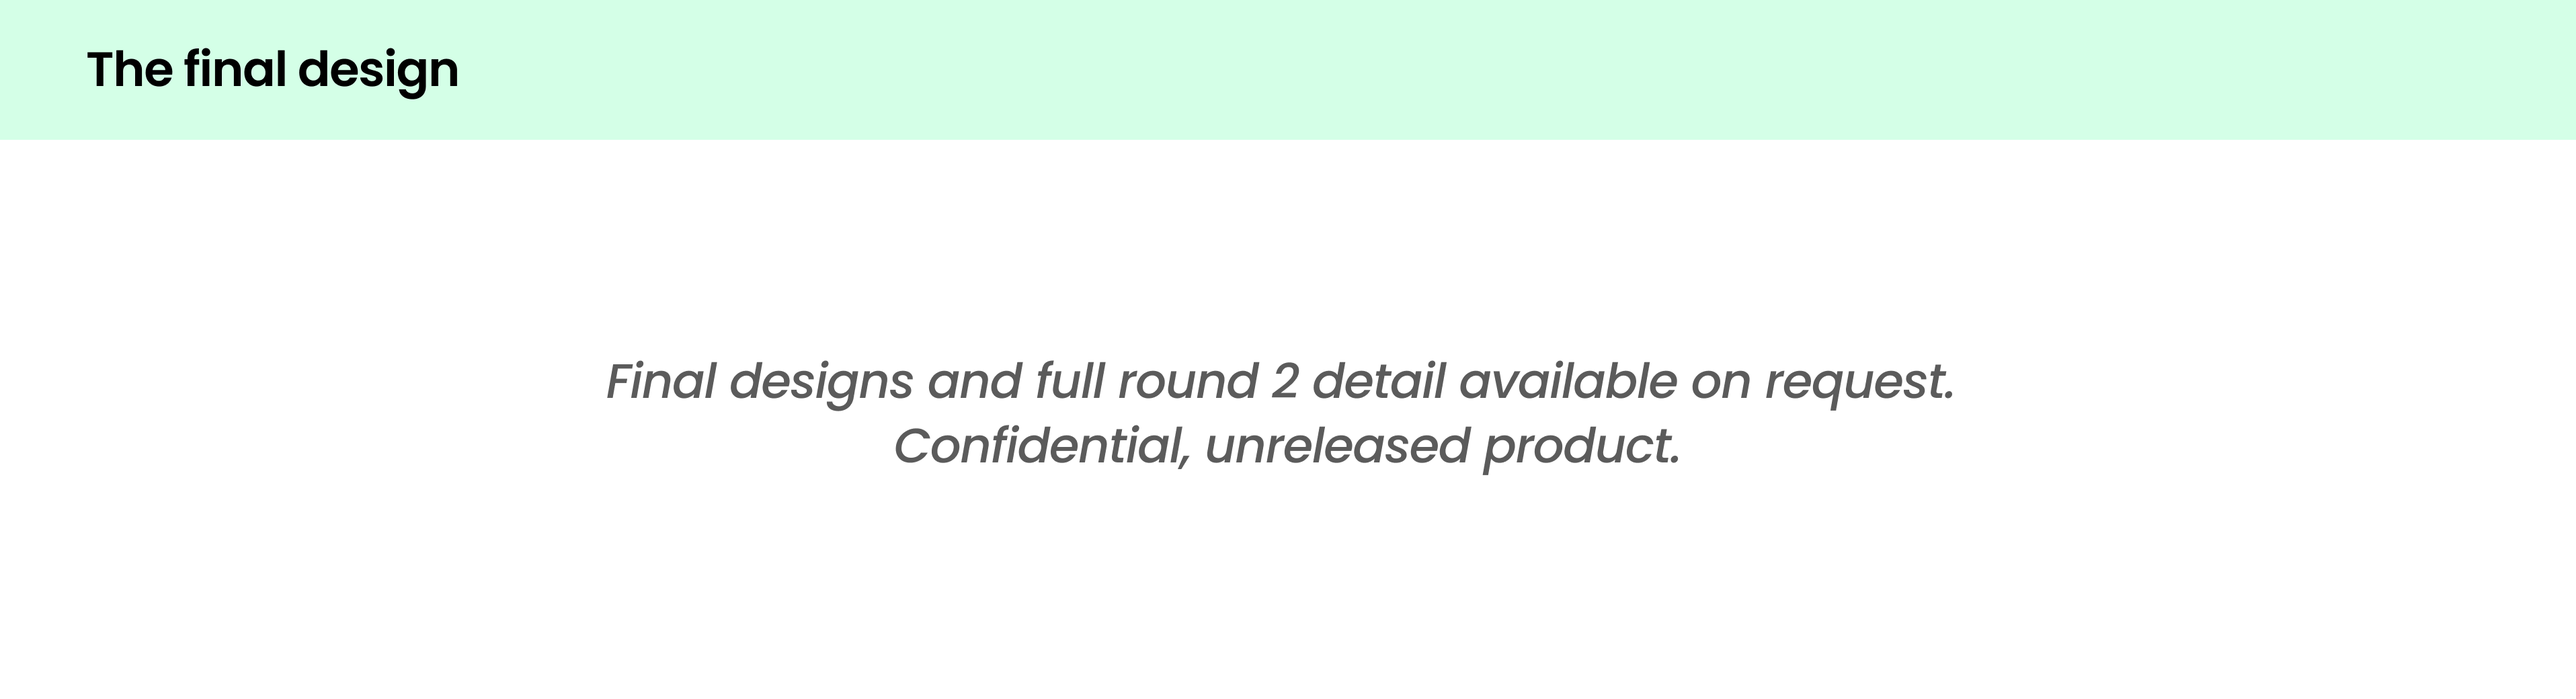
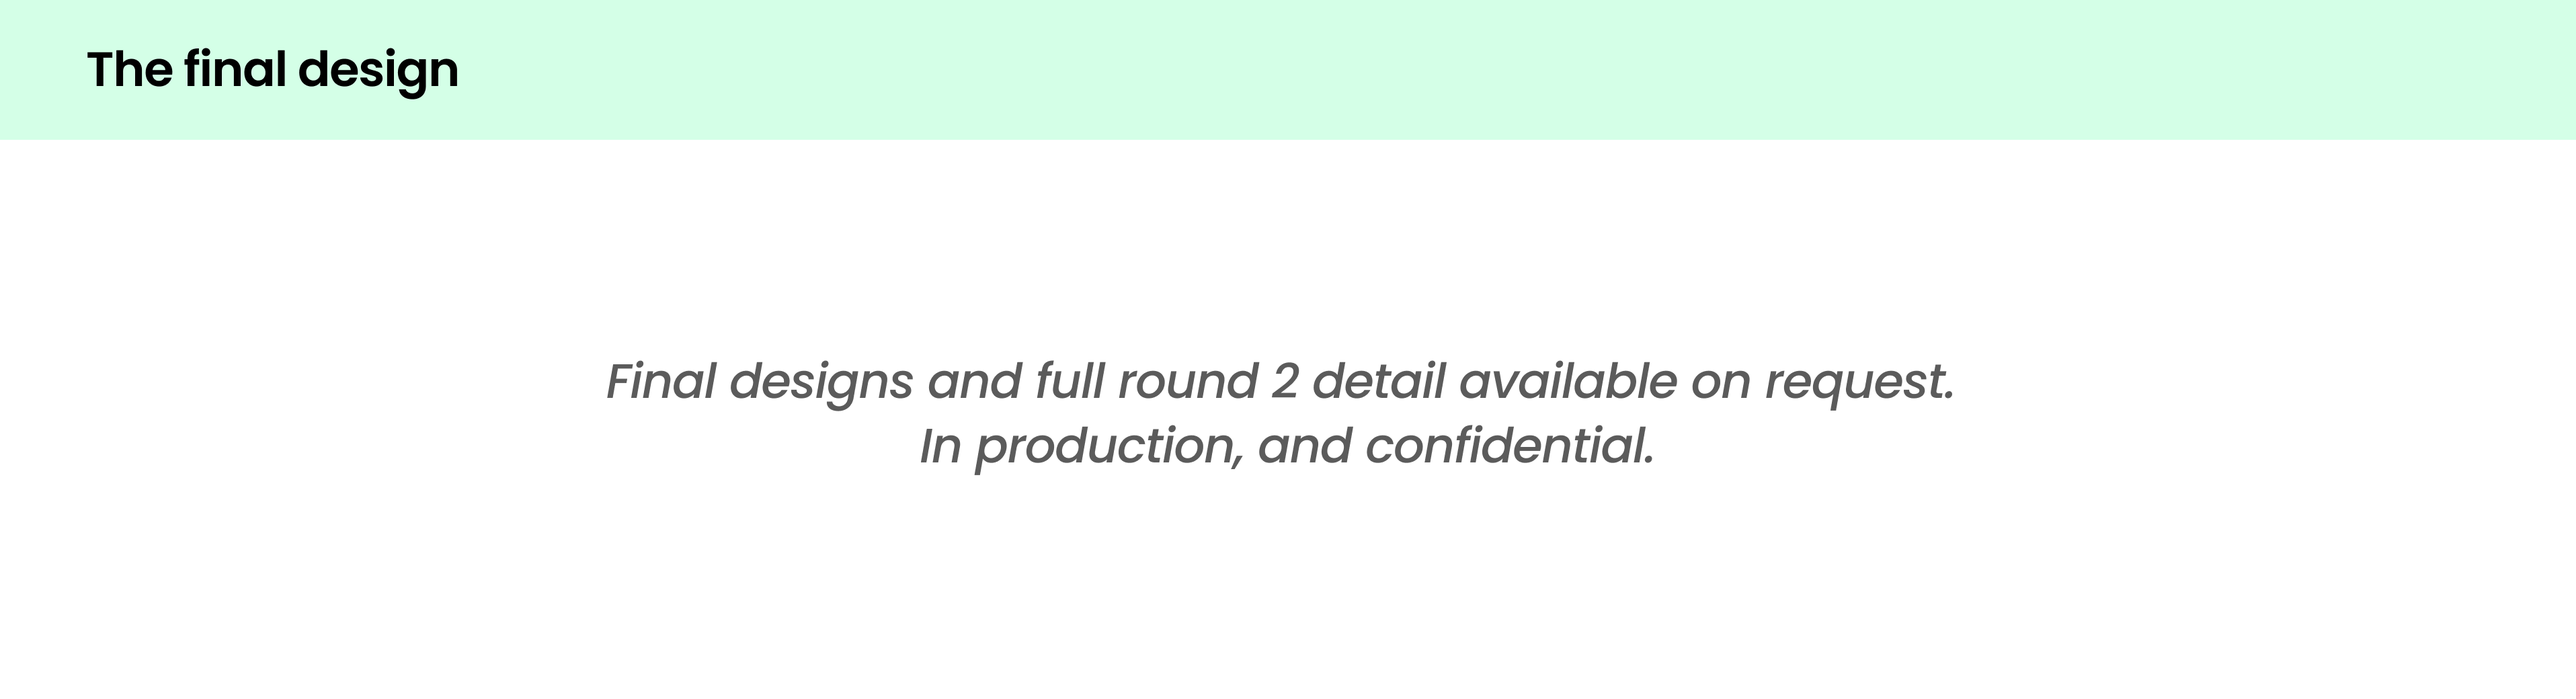
minor fixes

Changed region(s): [[0.3416, 0.6154, 0.6521, 0.6769]]

diff --git a/src/screens/uxDesigns/weScoreRedesign/index.js b/src/screens/uxDesigns/weScoreRedesign/index.js
@@ -328,7 +328,7 @@ function RatingTable({ rows = [], insight }) {
         <div>Participant</div>
 
         <div>
-          Concept 1 Rating
+          Rating
           <br />
           (Clarity, Usefulness, Trust)
         </div>
@@ -501,12 +501,13 @@ function WEScoreRedesign() {
                   padding="12px"
                   items={[
                     {
-                      quote: "“I could have a staff member look at this and go right to where I need them to go.”",
+                      quote:
+                        "“I could have a staff member look at this and go right to where I need them to go.”",
                       author: "President & CEO, community foundation",
                       image: quotePersonNine,
                       imagePosition: "left",
                       imageSize: 45,
-                    }
+                    },
                   ]}
                 />
               </FlexCol>
@@ -541,7 +542,7 @@ function WEScoreRedesign() {
                     "Fundraisers, prospect researchers, gift officers, and outreach teams",
                 },
                 {
-                  label: "Partner",
+                  label: "Company",
                   value: "WealthEngine, Altrata, London (in production)",
                 },
                 {
@@ -591,21 +592,20 @@ function WEScoreRedesign() {
             data-aos-delay="500"
           >
             <FlexOne>
-              <TitleThree>Identified problem</TitleThree>
+              <TitleThree>Identified problems</TitleThree>
               <SubTitleThree>Design Audit & User Research</SubTitleThree>
             </FlexOne>
-            <FlexTwo>
+            <FlexThree>
               <ProjDesc>
                 I audited WealthEngine's two proprietary scores, Wealth Score
                 and P2G (Propensity to Give), then ran research across eight
-                organisations, from solo fundraisers to national nonprofits.{" "}
+                organisations, from solo fundraisers to national nonprofits.
                 <br />
                 Different verticals had different use cases, and daily users had
                 different problems from occasional ones. The product treated
                 them all the same.
               </ProjDesc>
-            </FlexTwo>
-            <FlexOne></FlexOne>
+            </FlexThree>
           </FlexRowContainer>
 
           <FlexRowContainer
@@ -865,7 +865,6 @@ function WEScoreRedesign() {
           </FlexRowContainer>
 
           <FlexRowContainer
-            className="pb-0"
             data-aos="fade-up"
             data-aos-delay="500"
           >
@@ -890,7 +889,6 @@ function WEScoreRedesign() {
           </FlexRowContainer>
 
           <FlexRowContainer
-            className="pb-0"
             data-aos="fade-up"
             data-aos-delay="500"
           >
@@ -938,7 +936,7 @@ function WEScoreRedesign() {
               <TitleThree>Ideation</TitleThree>
               <SubTitleThree>Freehand to digitising</SubTitleThree>
             </FlexOne>
-            <FlexTwo>
+            <FlexThree>
               <ProjDesc>
                 With permission to rewrite the score logic rather than restyle
                 it, the range of answers opened up. Five aims carried into every
@@ -979,8 +977,7 @@ function WEScoreRedesign() {
                   Freehand meter gauge explorations
                 </SubDesc>
               </div>
-            </FlexTwo>
-            <FlexOne></FlexOne>
+            </FlexThree>
           </FlexRowContainer>
 
           <FlexRowContainer
@@ -1018,14 +1015,13 @@ function WEScoreRedesign() {
                 What was taken to the clients as the first draft
               </SubTitleThree>
             </FlexOne>
-            <FlexTwo>
+            <FlexThree>
               <ProjDesc>
                 There were 3 concepts, explorative but sufficient enough to
                 consume feedback to know if we were on the right track. A few
                 things that stayed across the concepts were,
               </ProjDesc>
-            </FlexTwo>
-            <FlexOne></FlexOne>
+            </FlexThree>
           </FlexRowContainer>
 
           <FlexRowContainer
@@ -1040,7 +1036,7 @@ function WEScoreRedesign() {
           </FlexRowContainer>
 
           <FlexRowContainer
-            className="pt-0 pb-0"
+            className="pt-0"
             data-aos="fade-up"
             data-aos-delay="500"
           >
@@ -1102,7 +1098,7 @@ function WEScoreRedesign() {
                 Four organizations, four industries, three time zones
               </SubTitleThree>
             </FlexOne>
-            <FlexTwo>
+            <FlexThree>
               <ProjDesc className="pb-0" style={{ marginBottom: "1%" }}>
                 <SemiBoldTxt>
                   Concept 1 was the direction, with one objection worth
@@ -1111,15 +1107,14 @@ function WEScoreRedesign() {
               </ProjDesc>
               <ProjDesc className="pt-0 pb-0" style={{ marginBottom: "1%" }}>
                 Three of four rated it 4 or 5 for clarity and usefulness. It was
-                the easiest to read and the least decorative.
+                the easiest to read and comprehensive.
               </ProjDesc>
               <ProjDesc>
                 The fourth rated it 2. She's the most experienced researcher in
                 the sample, and when she shared her screen she scrolled straight
                 past the score.
               </ProjDesc>
-            </FlexTwo>
-            <FlexOne></FlexOne>
+            </FlexThree>
           </FlexRowContainer>
 
           <FlexRowContainer
@@ -1313,7 +1308,7 @@ function WEScoreRedesign() {
             <FlexThree className="right-aligned-content">
               <InsightCard
                 title="6. The score leaves the product as an image."
-                description="The score has to survive being cropped out and dropped into a document. No surrounding UI, no hover, no explanation. That rules out anything interaction-dependent, and it's why concept 2 scored lowest."
+                description="The score has to survive being cropped out and dropped into a document. No surrounding UI, no hover, no explanation. That rules out anything interaction-dependent."
                 cardWidth="62%"
                 mainCardColor="#C5E2D2"
                 quoteCardColor="#F7FFF9"
@@ -1332,7 +1327,6 @@ function WEScoreRedesign() {
           </FlexRowContainer>
 
           <FlexRowContainer
-            className="pb-0"
             data-aos="fade-up"
             data-aos-delay="500"
           >
@@ -1409,19 +1403,18 @@ function WEScoreRedesign() {
               <TitleThree>Version Two</TitleThree>
               <SubTitleThree>Evolution of Concept 1</SubTitleThree>
             </FlexOne>
-            <FlexTwo>
+            <FlexThree>
               <ProjDesc>
                 Seven of the eight round 1 findings are answered here. The
                 eighth, planned giving, is a data problem rather than a design
                 one, and sits with another team. Design has provided a
                 placeholder.
               </ProjDesc>
-            </FlexTwo>
-            <FlexOne />
+            </FlexThree>
           </FlexRowContainer>
 
           <FlexRowContainer
-            className="pt-0 pb-0"
+            className="pt-0"
             data-aos="fade-up"
             data-aos-delay="500"
           >
@@ -1451,8 +1444,8 @@ function WEScoreRedesign() {
                 Four organizations, four industries, three time zones
               </SubTitleThree>
             </FlexOne>
-            <FlexTwo>
-              <ProjDesc>
+            <FlexThree>
+              <ProjDesc className="mb-0">
                 Every participant rated it 4 or 5 for clarity. The layout
                 worked, the scale gave people something to read against, and
                 nobody had to be talked through it.
@@ -1461,8 +1454,7 @@ function WEScoreRedesign() {
                 Seven changes came out of round 2, covering asset signals,
                 giving context and client-level personalisation.{" "}
               </ProjDesc>
-            </FlexTwo>
-            <FlexOne />
+            </FlexThree>
           </FlexRowContainer>
 
           <FlexRowContainer
@@ -1500,7 +1492,6 @@ function WEScoreRedesign() {
           </FlexRowContainer>
 
           <FlexRowContainer
-            className="pb-0"
             data-aos="fade-up"
             data-aos-delay="500"
           >
@@ -1520,7 +1511,6 @@ function WEScoreRedesign() {
           </FlexRowContainer>
 
           <FlexRowContainer
-            className="pb-0"
             data-aos="fade-up"
             data-aos-delay="500"
           >
@@ -1528,22 +1518,12 @@ function WEScoreRedesign() {
               <TitleThree>Clarity moved. Trust didn't.</TitleThree>
               <SubTitleThree>The Finding</SubTitleThree>
             </FlexOne>
-            <FlexTwo>
-              <ProjDesc>
+            <FlexThree>
+              <ProjDesc className="mb-0">
                 Trust sat at 3–4 across every participant, both rounds, and
                 every concept. Almost none of the reasons were about the design.
               </ProjDesc>
-            </FlexTwo>
-            <FlexOne />
-          </FlexRowContainer>
-
-          <FlexRowContainer
-            className="pt-0 pb-0"
-            data-aos="fade-up"
-            data-aos-delay="500"
-          >
-            <FlexOne />
-            <FlexThree>
+            
               <div
                 style={{
                   display: "grid",
@@ -1584,7 +1564,6 @@ function WEScoreRedesign() {
           </FlexRowContainer>
 
           <FlexRowContainer
-            className="pb-0"
             data-aos="fade-up"
             data-aos-delay="500"
           >
@@ -1592,7 +1571,7 @@ function WEScoreRedesign() {
               <TitleThree>What that told me</TitleThree>
               <SubTitleThree>The Reflection</SubTitleThree>
             </FlexOne>
-            <FlexTwo>
+            <FlexThree>
               <ProjDesc>
                 Trust is bounded by data quality and professional scepticism.
                 Design can't manufacture it, but it can shorten the checking
@@ -1600,8 +1579,7 @@ function WEScoreRedesign() {
                 requirement, and the redesign supports verification rather than
                 replacing it.
               </ProjDesc>
-            </FlexTwo>
-            <FlexOne />
+            </FlexThree>
           </FlexRowContainer>
 
           <FlexRowContainer
@@ -1612,15 +1590,14 @@ function WEScoreRedesign() {
             <FlexOne>
               <TitleThree>The Outcome</TitleThree>
             </FlexOne>
-            <FlexTwo>
+            <FlexThree>
               <ProjDesc style={{ filter: "blur(4px)" }}>
                 Product, engineering, architecture, commercial and customer
                 success were all walked through the research and bought into the
                 direction. The design is in production, with the full anchor
                 scoped for a later release.
               </ProjDesc>
-            </FlexTwo>
-            <FlexOne />
+            </FlexThree>
           </FlexRowContainer>
 
           <FlexRowContainer data-aos="fade-up" data-aos-delay="500">

diff --git a/src/screens/const.js b/src/screens/const.js
@@ -25,7 +25,7 @@ export const PROJECTS = {
     {
       title: "Is United States, Not Texas",
       desc: "Design boolean logic conditions (AND/OR/NOT) into the Advanced search filters of a people intelligence platform.",
-      subdesc: "Project Partner: Altrata, London",
+      subdesc: "Company: Altrata, London",
       subdescX: 0,
       subdescY: 0,
       imgSrc: require("../assets/images/ProjectTypes/usNotTexas/thumbnail.png"),
@@ -39,7 +39,7 @@ export const PROJECTS = {
     {
       title: "A Score To Find The Right People",
       desc: "Redesign the wealth and P2G score visualisation on a wealth intelligence platform.",
-      subdesc: "Project Partner: WealthEngine, Altrata, London",
+      subdesc: "Company: WealthEngine, London",
       subdescX: 0,
       subdescY: 0,
       imgSrc: require("../assets/images/ProjectTypes/weScoreRedesign/thumbnail.png"),
@@ -53,7 +53,7 @@ export const PROJECTS = {
     {
       title: "Old to New",
       desc: "A set of design decisions made while building Altrata, the single product consolidating four legacy brands.",
-      subdesc: "Project Partner: Altrata, London",
+      subdesc: "Company: Altrata, London",
       subdescX: 0,
       subdescY: 0,
       imgSrc: require("../assets/images/ProjectTypes/newToOld/thumbnail.png"),
@@ -67,7 +67,7 @@ export const PROJECTS = {
     {
       title: "Sharing Codes",
       desc: "Design a way to take advantage of other peoples’ digital transactions without them knowing.",
-      subdesc: "Project Partner: IBM, London",
+      subdesc: "Company: IBM, London",
       subdescX: 0,
       subdescY: 0,
       imgSrc: require("../assets/images/ProjectTypes/justNameless/justNameless.png"),

diff --git a/src/screens/uxDesigns/usNotTexas/index.js b/src/screens/uxDesigns/usNotTexas/index.js
@@ -218,8 +218,8 @@ function JustNameless() {
                     "Researchers, fundraisers and account managers across financial services, educational institutions and nonprofits.",
                 },
                 {
-                  label: "Partner",
-                  value: "Altrata, London (ongoing)",
+                  label: "Company",
+                  value: "Altrata, London",
                 },
                 {
                   label: "Team",

diff --git a/src/screens/connect/index.js b/src/screens/connect/index.js
@@ -56,6 +56,9 @@ function Connect() {
           <p data-aos="fade-up" data-aos-delay="300">
             Phone:<span>+44-7535243664</span>
           </p>
+          <p data-aos="fade-up" data-aos-delay="300">
+            Location:<span>London, United Kingdom</span>
+          </p>
           <br />
           <br />
           <p data-aos="fade-up" data-aos-delay="400">
